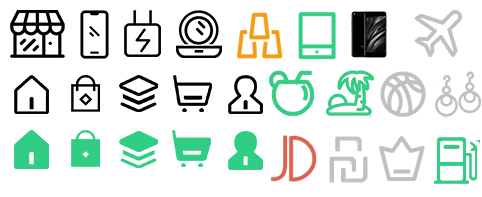
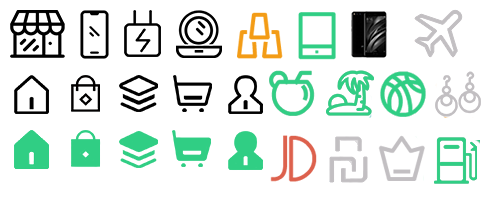
会员卡券链接

Changed region(s): [[0.778, 0.3655, 0.9025, 0.6091]]

diff --git a/cocogcMall/static/css/style.css b/cocogcMall/static/css/style.css
@@ -5,7 +5,7 @@
 html,body,ol,ul,h1,h2,h3,h4,h5,h6,p,th,td,dl,dd,form,fieldset,legend,input,textarea,select{margin:0;padding:0;}
 body{font:4.07vw "微软雅黑","Arial Narrow",HELVETICA;height: 100%;}
 a{text-decoration:none; color:#000000;}
-a:hover{text-decoration:none;color: #FF4400;}
+a:hover{text-decoration:none;color: #30ce84;}
 i,em{font-style:normal;}
 b,strong{font-weight:100;}
 ul,ol{list-style:none;}
